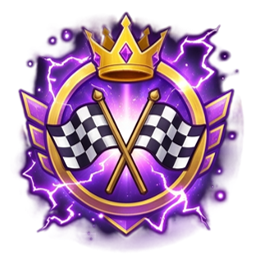
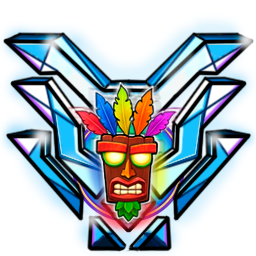
Ranked: S_97's Normal (FFA) tiers and badges
The Normal tiers are now Bronze, Silver, Golden Wumpa, Power Crystal, Mythic
Gem, Uka's Chosen and Ancient Spirit, with S_97's badges (scripts/assets
normal_1..7.png) and a new Unranked badge, as RyuNET names them
(ranked_mmr.go). The game still knows the older names an older server says.
Itemless keeps its tiers. Their translations come with the next commit's
scripts/octr_texts.py.

diff --git a/tests/test_ranked.c b/tests/test_ranked.c
@@ -11,7 +11,7 @@ void runtime_hof_season_changed(int season) { (void)season; }
 static char sent_target[256], sent_body[1024];
 static int sent;
 static int transfer_status = 200;
-static char transfer_reply[16384] = "{\"status\":\"resolved\",\"race\":7,\"delta\":45,\"mmr\":1045,\"placements\":4,\"tier\":\"Gold Mask\"}";
+static char transfer_reply[16384] = "{\"status\":\"resolved\",\"race\":7,\"delta\":45,\"mmr\":1045,\"placements\":4,\"tier\":\"Golden Wumpa\"}";
 static int tier_fetch_enabled, tier_revision, tier_gets;
 static const char *status_reply = "{\"season\":2,\"enabled\":false,\"retry_after\":895}";
 static int status_http = 200, status_gets;
@@ -65,9 +65,9 @@ int runtime_ryunet_transfer(const char *method, const char *target, const void *
         const int updated = __atomic_load_n(&tier_revision, __ATOMIC_RELAXED);
         const char *body = updated
             ? (itemless ? "{\"tiers\":{\"hostracer\":\"Sacred Fire\"},\"mmr\":{\"hostracer\":1600}}"
-                        : "{\"tiers\":{\"hostracer\":\"Chaos Grand Prix\"},\"mmr\":{\"hostracer\":3100}}")
+                        : "{\"tiers\":{\"hostracer\":\"Ancient Spirit\"},\"mmr\":{\"hostracer\":3100}}")
             : (itemless ? "{\"tiers\":{\"hostracer\":\"Oxide Overlord\"},\"mmr\":{\"hostracer\":3000}}"
-                        : "{\"tiers\":{\"hostracer\":\"Gold Mask\"},\"mmr\":{\"hostracer\":1045}}");
+                        : "{\"tiers\":{\"hostracer\":\"Golden Wumpa\"},\"mmr\":{\"hostracer\":1045}}");
         *reply = strdup(body);
         assert(*reply);
         *reply_size = strlen(*reply);
@@ -108,6 +108,10 @@ static void test_status_contract(void) {
     assert(ranked_account_reply("{\"season\":1,\"enabled\":true,\"retry_after\":0,"
                                 "\"account_required\":true,\"account_linked\":false}") == 0);
     assert(ranked_account_reply("{\"season\":1,\"enabled\":true,\"retry_after\":0,\"account_required\":true}") == 0);
+    /* Normal tiers by their names since 2026-11-18, and by the older ones an older server says */
+    assert(tier_index("Bronze", 0) == 1 && tier_index("Golden Wumpa", 0) == 3 && tier_index("Uka's Chosen", 0) == 6);
+    assert(tier_index("Ancient Spirit", 0) == 7 && tier_index("Gold Mask", 0) == 3 && tier_index("Chaos Grand Prix", 0) == 7);
+    assert(tier_index("Gold Mask", 1) == 0 && tier_index("Platinum Relic", 1) == 3 && tier_index("Bronze", 1) == 0);
     status_state = 0;
     status_until = monotonic_ms() + 895000;
     assert(runtime_ranked_status(1) == 0 && !status_pending);
@@ -198,7 +202,7 @@ static void test_guest_pending_then_delta(void) {
     assert(sent == RANKED_RETRIES);   /* the whole budget goes on waiting for the host */
     struct runtime_ranked_result result;
     assert(!runtime_ranked_result_copy(&result)); /* waits for the host */
-    strcpy(transfer_reply, "{\"status\":\"resolved\",\"race\":8,\"delta\":30,\"mmr\":1030,\"placements\":4,\"tier\":\"Gold Mask\"}");
+    strcpy(transfer_reply, "{\"status\":\"resolved\",\"race\":8,\"delta\":30,\"mmr\":1030,\"placements\":4,\"tier\":\"Golden Wumpa\"}");
     ranked_sender(make_outbox());
     assert(sent == RANKED_RETRIES + 1);
     assert(runtime_ranked_result_copy(&result) && result.delta == 30 && result.mmr == 1030);
@@ -238,11 +242,11 @@ static void test_rejected_report_drops_out(void) {
 
 static void test_tier_batch_response(void) {
     char tier[40];
-    const char *reply = "{\"mode\":0,\"tiers\":{\"hostracer\":\"Gold Mask\"},\"mmr\":{\"hostracer\":1045}}";
+    const char *reply = "{\"mode\":0,\"tiers\":{\"hostracer\":\"Golden Wumpa\"},\"mmr\":{\"hostracer\":1045}}";
     assert(ranked_tier_reply(reply, "hostracer", tier, sizeof tier));
-    assert(!strcmp(tier, "Gold Mask"));
+    assert(!strcmp(tier, "Golden Wumpa"));
     assert(!ranked_tier_reply(reply, "missing", tier, sizeof tier));
-    assert(!ranked_tier_reply("{\"hostracer\":\"Gold Mask\"}", "hostracer", tier, sizeof tier));
+    assert(!ranked_tier_reply("{\"hostracer\":\"Golden Wumpa\"}", "hostracer", tier, sizeof tier));
     int mmr = 0;
     assert(ranked_mmr_reply(reply, "hostracer", &mmr) && mmr == 1045);
     assert(!ranked_mmr_reply(reply, "missing", &mmr));
@@ -330,7 +334,7 @@ static void test_result_snapshot(void) {
     session_room = 42;
     session_mode = 0;
     runtime_ranked_race_begin();
-    strcpy(transfer_reply, "{\"participants\":[{\"mmr\":9999,\"delta\":999}],\"status\":\"resolved\",\"delta\":-35,\"delta_applied\":-5,\"mmr_before\":5,\"mmr\":0,\"ranked\":true,\"ranked_before\":true,\"tier_before\":\"Bronze Wumpa\",\"tier\":\"Bronze Wumpa\",\"placements\":0}");
+    strcpy(transfer_reply, "{\"participants\":[{\"mmr\":9999,\"delta\":999}],\"status\":\"resolved\",\"delta\":-35,\"delta_applied\":-5,\"mmr_before\":5,\"mmr\":0,\"ranked\":true,\"ranked_before\":true,\"tier_before\":\"Bronze\",\"tier\":\"Bronze\",\"placements\":0}");
     struct ranked_outbox *box = make_outbox();
     box->generation = result_generation;
     ranked_sender(box);

diff --git a/src/runtime_ranked.c b/src/runtime_ranked.c
@@ -14,10 +14,10 @@
  * The server scores the race when the room's own host reports (the same
  * authority the game already uses) and answers every reporter with its own
  * outcome: {"status":"resolved","race":7,"season":1,"delta":45,"mmr":1045,
- * "placements":4,"tier":"Gold Mask"}. Guests that reported a moment before the
+ * "placements":4,"tier":"Golden Wumpa"}. Guests that reported a moment before the
  * host get "pending" and retry; once the race is resolved a retry carries
  * their delta, which then joins the lobby card:
- * RANKED - NORMAL  +45 (1045 Gold Mask).
+ * RANKED - NORMAL  +45 (1045 Golden Wumpa).
  * The Python launcher stays out of it: the mod talks to RyuNET itself, exactly
  * like chat, spectate and name colors do.
  */
@@ -213,14 +213,19 @@ static int same_nick(const char *a, const char *b) {
     return !*a && !*b;
 }
 
+/* As RyuNET names them (its ranked_mmr.go rankedTierNames). Normal (FFA) since 2026-11-18, by S_97:
+ * Bronze, Silver, Golden Wumpa, Power Crystal, Mythic Gem, Uka's Chosen, Ancient Spirit. */
 static const char *const tier_names[2][7] = {
-    {"Bronze Wumpa", "Silver Nitro", "Gold Mask", "Platinum Trophy", "Aku Master", "Uka Legend", "Chaos Grand Prix"},
+    {"Bronze", "Silver", "Golden Wumpa", "Power Crystal", "Mythic Gem", "Uka's Chosen", "Ancient Spirit"},
     {"Sapphire Relic", "Gold Relic", "Platinum Relic", "Sacred Fire", "Ultimate Sacred Fire", "Time Crusher", "Oxide Overlord"},
 };
+/* the Normal tiers' names before that, as an older server still says them */
+static const char *const old_normal_tier_names[7] = {
+    "Bronze Wumpa", "Silver Nitro", "Gold Mask", "Platinum Trophy", "Aku Master", "Uka Legend", "Chaos Grand Prix"};
 
 static int tier_index(const char *name, int mode) {
     for (int i = 0; i < 7; ++i)
-        if (!strcmp(name, tier_names[mode][i])) return i + 1;
+        if (!strcmp(name, tier_names[mode][i]) || (!mode && !strcmp(name, old_normal_tier_names[i]))) return i + 1;
     return 0;
 }
 
